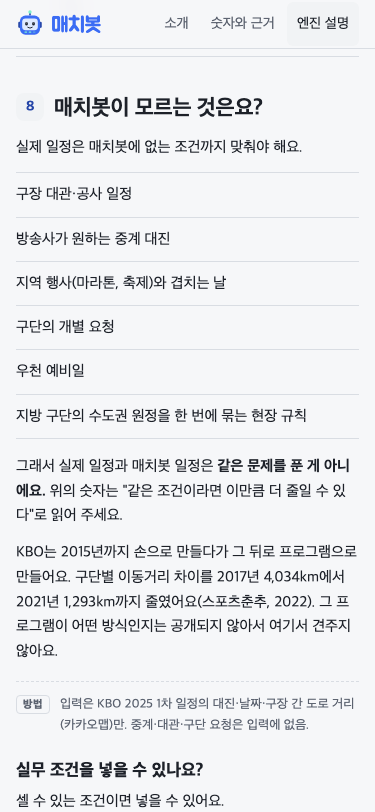
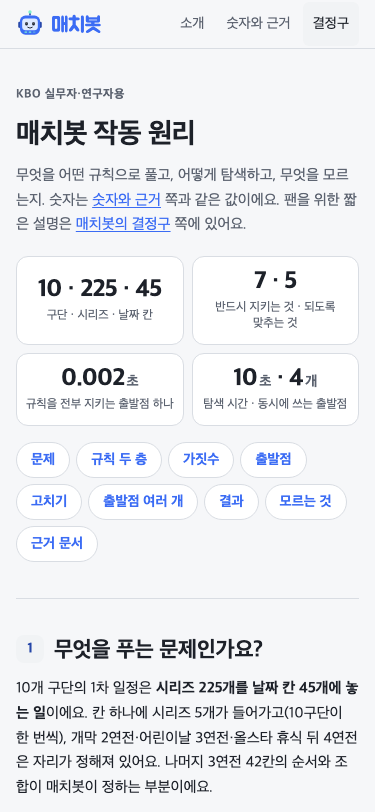
엔진 설명 → 매치봇의 결정구(팬용)·매치봇 작동 원리(실무자용), 결정구 세 가지 칩
사용자: "엔진 설명"은 설명서 제목 같고, 왜 어려운 문제인지·어떤 방법으로 푸는지를 매치봇의 필살기처럼. 메뉴는 소개 · 숫자와 근거 · 결정구. 점검 전부 PASS.

diff --git a/ui/show/how.html b/ui/show/how.html
@@ -3,11 +3,11 @@
 <head>
 <meta charset="utf-8">
 <meta name="viewport" content="width=device-width, initial-scale=1">
-<title>매치봇은 어떻게 일정을 만들까요? — 매치봇</title>
-<meta name="description" content="규칙을 전부 지키는 일정 하나에서 출발해, 10초 동안 수백 번 고쳐 나가요. 매치봇이 KBO 일정을 만드는 과정을 일곱 가지 질문으로 짧게 설명해요.">
+<title>매치봇의 결정구 — 매치봇</title>
+<meta name="description" content="규칙을 다 지키는 일정은 셀 수 없이 많아요. 매치봇의 결정구는 그중 하나를 만들어 10초 동안 수백 번 고치는 것. 왜 어려운 문제이고 어떻게 푸는지 일곱 가지 질문으로 설명해요.">
 <meta property="og:type" content="article">
-<meta property="og:title" content="매치봇은 어떻게 일정을 만들까요?">
-<meta property="og:description" content="규칙을 전부 지키는 일정 하나에서 출발해, 10초 동안 수백 번 고쳐 나가요. 왜 출발점을 여러 개 쓰는지, 무엇을 모르는지까지.">
+<meta property="og:title" content="매치봇의 결정구 — 왜 어렵고, 어떻게 푸나">
+<meta property="og:description" content="규칙을 다 지키는 일정은 셀 수 없이 많아요. 매치봇은 그중 하나를 만들어 10초 동안 수백 번 고쳐요. 왜 출발점을 여러 개 쓰는지, 무엇을 모르는지까지.">
 <meta property="og:image" content="https://schedulelab.kr/og/default.png">
 <meta name="twitter:card" content="summary_large_image">
 <script>
@@ -57,7 +57,7 @@
 <header class="sh-top">
   <div class="sh-wrap">
     <a class="sh-brand" href="index.html" aria-label="매치봇 홈"><svg class="sh-mark" aria-hidden="true"><use href="#mb-bot"/></svg><span class="sh-wm">매치봇</span><span class="sh-site">KBO 일정 톺아보기</span></a>
-    <nav class="sh-nav" aria-label="주요 메뉴"><a href="index.html">소개</a><a href="compare.html">숫자와 근거</a><a href="how.html" aria-current="page">엔진 설명</a></nav>
+    <nav class="sh-nav" aria-label="주요 메뉴"><a href="index.html">소개</a><a href="compare.html">숫자와 근거</a><a href="how.html" aria-current="page">결정구</a></nav>
   </div>
 </header>
 
@@ -65,9 +65,12 @@
   <!-- 엔진 설명 C안(2026-11-01): 팬용 짧은 쪽. 공통 글의 1·3·4·5·6·7·8번만 2~3문장씩, 2번은 1번 안의 한 문장으로. 전문 용어 없음.
        깊은 설명(실무자·연구자용)은 engine.html -->
   <section class="sh-sec" aria-labelledby="how-h">
-    <p class="sh-kicker">엔진 설명</p>
-    <h1 class="sh-h1" id="how-h">매치봇은 어떻게 일정을 만들까요?</h1>
-    <div class="sh-say"><svg class="sh-say-bot" aria-hidden="true"><use href="#mb-bot-think"/></svg><p class="sh-lead sh-say-msg">규칙을 전부 지키는 일정 하나에서 출발해, 10초 동안 수백 번 고쳐 나가요. 그 과정을 일곱 가지 질문으로 설명해요.</p></div>
+    <p class="sh-kicker">왜 어렵고, 어떻게 푸나</p>
+    <h1 class="sh-h1" id="how-h">매치봇의 결정구</h1>
+    <div class="sh-say"><svg class="sh-say-bot" aria-hidden="true"><use href="#mb-bot-think"/></svg><p class="sh-lead sh-say-msg">규칙을 다 지키는 일정은 셀 수 없이 많아요. 제 결정구는 그중 하나를 만들어 10초 동안 수백 번 고치는 거예요. 왜 어려운지, 어떻게 푸는지 일곱 가지 질문으로 설명해요.</p></div>
+    <!-- 결정구 세 가지(2026-11-01, 사용자: "엔진 설명" 대신 매치봇의 필살기 느낌으로). 4·5·6번 질문으로 가는 칩 -->
+    <p class="sh-kicker sh-how-k3">결정구는 세 가지예요</p>
+    <nav class="sh-jump sh-how-jump" aria-label="결정구 세 가지"><a href="#q4">규칙 위반 0인 출발점</a><a href="#q5">점수를 따라 수백 번 고치기</a><a href="#q6">출발점 4개 중 최고 고르기</a></nav>
   </section>
 
   <section class="sh-sec" id="q1" aria-labelledby="q1-h">
@@ -174,7 +177,7 @@
     <h2 class="sh-h2" id="q8-h">매치봇이 모르는 것은요?</h2>
     <p>실제 일정은 매치봇에 없는 조건까지 맞춰야 해요. 구장 대관·공사 일정, 방송사가 원하는 중계 대진, 지역 행사와 겹치는 날, 구단의 개별 요청, 우천 예비일 같은 것들이에요. 그래서 실제 일정과 매치봇 일정은 <b>같은 문제를 푼 게 아니에요.</b> 위의 숫자는 "같은 조건이라면 이만큼 더 줄일 수 있다"로 읽어 주세요.</p>
     <p>KBO는 2015년까지 손으로 만들다가 그 뒤로 프로그램으로 만들어요. 구단별 이동거리 차이를 2017년 4,034km에서 2021년 1,293km까지 줄였어요(스포츠춘추, 2022).</p>
-    <p class="sh-how-deep"><a class="sh-link" href="engine.html">더 깊이 알아보기 (KBO 실무자·연구자용) →</a></p>
+    <p class="sh-how-deep"><a class="sh-link" href="engine.html">작동 원리 더 깊이 (KBO 실무자·연구자용) →</a></p>
     <div class="sh-card-foot sh-eng-foot"><a class="k-btn k-btn-primary" href="compare.html">숫자와 근거 보기</a><a class="k-btn" href="index.html">소개로 돌아가기</a><button class="k-btn sh-more" type="button" data-share="copy" aria-label="이 쪽 링크 복사">링크 복사</button></div>
   </section>
 </main>
@@ -183,7 +186,7 @@
   <div class="sh-wrap">
     <p class="sh-foot-promo">스케줄랩의 다른 서비스 · <a href="https://www.everyshift.co.kr/" target="_blank" rel="noopener">에브리시프트</a> — 병원·기업의 교대 근무표를 AI가 자동으로 만들어 드려요 →</p>
     <p>이 사이트는 KBO와 관계없는 개인 프로젝트예요. 데이터는 KBO가 발표한 2025 정규시즌 1차 일정을 바탕으로 만들었어요.</p>
-    <p><a href="index.html">소개로</a> · <a href="compare.html">숫자와 근거</a> · <a href="engine.html">엔진 설명(실무자용)</a> · <a href="../index.html" data-studio>편성 스튜디오(PC)</a></p>
+    <p><a href="index.html">소개로</a> · <a href="compare.html">숫자와 근거</a> · <a href="engine.html">작동 원리(실무자용)</a> · <a href="../index.html" data-studio>편성 스튜디오(PC)</a></p>
   </div>
 </footer>
 <script src="show.js?v=20261101a"></script>

diff --git a/ui/show/engine.html b/ui/show/engine.html
@@ -3,10 +3,10 @@
 <head>
 <meta charset="utf-8">
 <meta name="viewport" content="width=device-width, initial-scale=1">
-<title>매치봇 엔진 설명 (KBO 실무자·연구자용) — 매치봇</title>
+<title>매치봇 작동 원리 (KBO 실무자·연구자용) — 매치봇</title>
 <meta name="description" content="매치봇이 KBO 1차 일정을 어떤 문제로 보고, 어떤 규칙 두 층으로 풀고, 어디서 출발해 어떻게 고쳐 나가는지. 출발점 여러 개를 쓰는 근거 숫자와 매치봇이 모르는 조건까지, 실무자·연구자용으로 정리했어요.">
 <meta property="og:type" content="article">
-<meta property="og:title" content="매치봇 엔진 설명 — 무엇을 어떤 규칙으로 풀고, 어떻게 탐색하고, 무엇을 모르는지">
+<meta property="og:title" content="매치봇 작동 원리 — 무엇을 어떤 규칙으로 풀고, 어떻게 탐색하고, 무엇을 모르는지">
 <meta property="og:description" content="시리즈 225개를 날짜 칸 45개에. 반드시 지키는 규칙 7가지 안에서 5가지를 차례로 맞추고, 규칙 위반 0인 출발점에서 10초 동안 고쳐 나가요. 출발점 4개를 동시에 돌리는 이유와 벤치마크 숫자.">
 <meta property="og:image" content="https://schedulelab.kr/og/default.png">
 <meta name="twitter:card" content="summary_large_image">
@@ -50,7 +50,7 @@
 <header class="sh-top">
   <div class="sh-wrap">
     <a class="sh-brand" href="index.html" aria-label="매치봇 홈"><svg class="sh-mark" aria-hidden="true"><use href="#mb-bot"/></svg><span class="sh-wm">매치봇</span><span class="sh-site">KBO 일정 톺아보기</span></a>
-    <nav class="sh-nav" aria-label="주요 메뉴"><a href="index.html">소개</a><a href="compare.html">숫자와 근거</a><a href="how.html" aria-current="page">엔진 설명</a></nav>
+    <nav class="sh-nav" aria-label="주요 메뉴"><a href="index.html">소개</a><a href="compare.html">숫자와 근거</a><a href="how.html" aria-current="page">결정구</a></nav>
   </div>
 </header>
 
@@ -59,8 +59,8 @@
        블록 2·4·5·6·7·8 바로 밑의 「방법」 줄에만 전문 용어를 쓴다(공통 글 9블록의 대응 행). -->
   <section class="sh-sec" aria-labelledby="eng-h">
     <p class="sh-kicker">KBO 실무자·연구자용</p>
-    <h1 class="sh-h1" id="eng-h">매치봇 엔진 설명</h1>
-    <p class="sh-lead">무엇을 어떤 규칙으로 풀고, 어떻게 탐색하고, 무엇을 모르는지. 숫자는 <a href="compare.html">숫자와 근거</a> 쪽과 같은 값이에요. 팬을 위한 짧은 설명은 <a href="how.html">엔진 설명</a> 쪽에 있어요.</p>
+    <h1 class="sh-h1" id="eng-h">매치봇 작동 원리</h1>
+    <p class="sh-lead">무엇을 어떤 규칙으로 풀고, 어떻게 탐색하고, 무엇을 모르는지. 숫자는 <a href="compare.html">숫자와 근거</a> 쪽과 같은 값이에요. 팬을 위한 짧은 설명은 <a href="how.html">매치봇의 결정구</a> 쪽에 있어요.</p>
     <div class="sh-facts sh-eng-facts" role="group" aria-label="한눈에 보는 숫자 네 개">
       <div class="sh-fact"><b>10 · 225 · 45</b><span>구단 · 시리즈 · 날짜 칸</span></div>
       <div class="sh-fact"><b>7 · 5</b><span>반드시 지키는 것 · 되도록 맞추는 것</span></div>
@@ -282,7 +282,7 @@
   <div class="sh-wrap">
     <p class="sh-foot-promo">스케줄랩의 다른 서비스 · <a href="https://www.everyshift.co.kr/" target="_blank" rel="noopener">에브리시프트</a> — 병원·기업의 교대 근무표를 AI가 자동으로 만들어 드려요 →</p>
     <p>이 사이트는 KBO와 관계없는 개인 프로젝트예요. 데이터는 KBO가 발표한 2025 정규시즌 1차 일정을 바탕으로 만들었어요.</p>
-    <p><a href="index.html">소개로</a> · <a href="compare.html">숫자와 근거</a> · <a href="how.html">엔진 설명</a> · <a href="../index.html" data-studio>편성 스튜디오(PC)</a></p>
+    <p><a href="index.html">소개로</a> · <a href="compare.html">숫자와 근거</a> · <a href="how.html">결정구</a> · <a href="../index.html" data-studio>편성 스튜디오(PC)</a></p>
   </div>
 </footer>
 <script src="show.js?v=20261101a"></script>

diff --git a/ui/show/index.html b/ui/show/index.html
@@ -74,7 +74,7 @@
 <header class="sh-top">
   <div class="sh-wrap">
     <a class="sh-brand" href="index.html" aria-label="매치봇 홈"><svg class="sh-mark" aria-hidden="true"><use href="#mb-bot"/></svg><span class="sh-wm">매치봇</span><span class="sh-site">KBO 일정 톺아보기</span></a>
-    <nav class="sh-nav" aria-label="주요 메뉴"><a href="index.html" aria-current="page">소개</a><a href="compare.html">숫자와 근거</a><a href="how.html">엔진 설명</a></nav><nav class="sh-nav sh-nav-pc" aria-label="PC 메뉴"><a href="../index.html" data-studio>편성 스튜디오(PC)</a></nav>
+    <nav class="sh-nav" aria-label="주요 메뉴"><a href="index.html" aria-current="page">소개</a><a href="compare.html">숫자와 근거</a><a href="how.html">결정구</a></nav><nav class="sh-nav sh-nav-pc" aria-label="PC 메뉴"><a href="../index.html" data-studio>편성 스튜디오(PC)</a></nav>
   </div>
 </header>
 
@@ -209,7 +209,7 @@
       <div class="sh-step"><i aria-hidden="true">2</i><div><h3>꼭 지킬 규칙과, 되도록 좋게 할 목표</h3><p>반드시 지켜야 하는 규칙이 있어요. 한 구단이 하루 두 경기를 할 수 없고, 잠실은 두산·LG가 함께 쓰며, 홈 시리즈나 원정 시리즈가 4번 연속 이어지면 안 돼요. 그 안에서 되도록 좋게 만들고 싶은 목표가 있어요. 총 이동거리를 줄이고, 구단별 이동거리와 주말·공휴일 홈 경기 수를 고르게 하는 것. 매치봇은 규칙을 어기지 않는 일정 중에서 목표가 가장 좋은 일정을 찾아요.</p></div></div>
       <div class="sh-step"><i aria-hidden="true">3</i><div><h3>작은 수정을 쉬지 않고</h3><p>대충 맞는 일정에서 시작해, 시리즈 두 개를 맞바꾸거나 날짜 두 칸의 시리즈를 통째로 바꾸는 작은 수정을 끊임없이 시도하고 더 나아지는 수정만 남겨요. 가끔은 일부러 조금 나빠지는 수정도 받아들여서 막다른 길에서 빠져나오고요. 이런 방법을 '메타휴리스틱'이라고 부르고, 위의 탐색 과정이 바로 그 모습이에요. 매치봇의 엔진은 오픈소스 OptaPlanner예요.</p></div></div>
     </div>
-    <p class="sh-eng-more"><a class="sh-link" href="how.html">더 자세히 →</a><span class="sh-small"> 출발점·고치는 방법·출발점을 여러 개 쓰는 이유를 일곱 가지 질문으로</span></p>
+    <p class="sh-eng-more"><a class="sh-link" href="how.html">매치봇의 결정구 →</a><span class="sh-small"> 왜 어려운 문제인지, 어떻게 푸는지 일곱 가지 질문으로</span></p>
   </section>
 
   <!-- ④ 직접 해보기 -->

diff --git a/ui/show/compare.html b/ui/show/compare.html
@@ -71,7 +71,7 @@
 <header class="sh-top">
   <div class="sh-wrap">
     <a class="sh-brand" href="index.html" aria-label="매치봇 홈"><svg class="sh-mark" aria-hidden="true"><use href="#mb-bot"/></svg><span class="sh-wm">매치봇</span><span class="sh-site">KBO 일정 톺아보기</span></a>
-    <nav class="sh-nav" aria-label="주요 메뉴"><a href="index.html">소개</a><a href="compare.html" aria-current="page">숫자와 근거</a><a href="how.html">엔진 설명</a></nav>
+    <nav class="sh-nav" aria-label="주요 메뉴"><a href="index.html">소개</a><a href="compare.html" aria-current="page">숫자와 근거</a><a href="how.html">결정구</a></nav>
   </div>
 </header>
 
@@ -152,7 +152,7 @@
         <li>실제 일정: KBO가 발표한 2025 정규시즌 1차 일정(3/22~8/31). 시즌 중 우천 취소·재편성은 반영하지 않았어요.</li>
         <li>구장 간 거리: 카카오맵으로 잰 구장 사이 도로 거리(위 「구장 간 거리표」). 실제 버스 이동과는 다를 수 있어요.</li>
         <li>관중·입장 수입: KBO 보도자료(2024-08-29, 요일별 평균 관중), 2025 관중 1,231만 명(노컷뉴스 2025-12-30), 2025 입장 수입 2,049억 원(톱스타뉴스 2026-06-30), 홈 72 : 원정 28 배분(한국일보 2015-04-10).</li>
-        <li>매치봇 엔진: 오픈소스 OptaPlanner. 무엇을 어떤 규칙으로 풀고 어떻게 탐색하는지는 <a href="engine.html">엔진 설명(실무자용)</a>에 정리했어요.</li>
+        <li>매치봇 엔진: 오픈소스 OptaPlanner. 무엇을 어떤 규칙으로 풀고 어떻게 탐색하는지는 <a href="engine.html">작동 원리(실무자용)</a>에 정리했어요.</li>
       </ul>
       <div class="sh-card-foot"><a class="k-btn k-btn-primary" href="index.html">소개로 돌아가기</a><a class="k-btn" href="index.html#replay">탐색 과정 보기</a><button class="k-btn sh-more" type="button" data-share="copy" aria-label="이 쪽 링크 복사">링크 복사</button></div>
     </div>

diff --git a/ui/show/r.html b/ui/show/r.html
@@ -74,7 +74,7 @@
 <header class="sh-top">
   <div class="sh-wrap">
     <a class="sh-brand" href="index.html" aria-label="매치봇 홈"><svg class="sh-mark" aria-hidden="true"><use href="#mb-bot"/></svg><span class="sh-wm">매치봇</span><span class="sh-site">KBO 일정 톺아보기</span></a>
-    <nav class="sh-nav" aria-label="주요 메뉴"><a href="index.html">소개</a><a href="compare.html">숫자와 근거</a><a href="how.html">엔진 설명</a></nav>
+    <nav class="sh-nav" aria-label="주요 메뉴"><a href="index.html">소개</a><a href="compare.html">숫자와 근거</a><a href="how.html">결정구</a></nav>
   </div>
 </header>
 

diff --git a/ui/show/show.css b/ui/show/show.css
@@ -775,3 +775,7 @@ html[data-lay] .sh-tool-top .sh-h2 { margin: 0; }
 .sh-how .sh-stats-msg .sh-stat-d b { font-variant-numeric: tabular-nums; }
 .sh-body .sh-how-deep { margin: 20px 0 0; font-size: 16px; }
 .sh-how-deep .sh-link { white-space: normal; }
+
+/* 결정구 세 가지(how.html, 2026-11-01): 말풍선 아래 머리글 + 4·5·6번으로 가는 칩 */
+.sh-how .sh-how-k3 { margin: 20px 0 8px; }
+.sh-how .sh-how-jump { margin: 0; }
